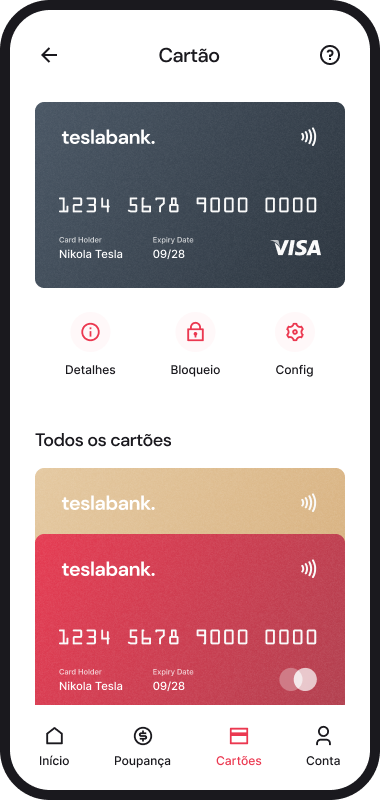
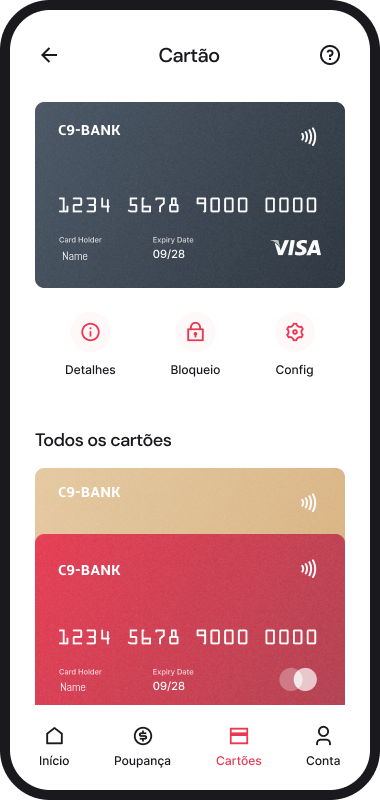
Download feito e blog

diff --git a/index.html b/index.html
@@ -95,17 +95,55 @@
                 </div>
             </div>   
         </section>
-        <section class="cartoes">
+        <section class="cartoes" id="cartoes">
             <div class="title">
-                <h2>Cartão perfeito para <br> suas necessidades.</h2>
+                <h1>Cartão perfeito para <br> suas necessidades.</h1>
                 <p>Encontre o cartão perfeito para suas necessidades financeiras. Seja para <br>viagens ou compras do dia a dia, temos uma opção que se adapta a você.</p>
             </div>
             <div class="img-cartao">
                 <img src="/assets/imagens/cards-type.svg" alt="">
             </div>
             <div class="abrir">
-                <a href="#" class="btn abrir-btn">Abrir sua conta</a>
+                <a href="#dowload" class="btn abrir-btn">Abrir sua conta</a>
                 <a href="#" class="btn btn-type">Compare os cartões</a>
+            </div>
+        </section>
+        <section class="dowload" id="dowload">
+            <div class="escrita_download">  
+                <h1>Uma nova experiência <br>
+                em <span class="red">serviços financeiros.</span></h1>
+                <p class="abort">Nossa abordagem inovadora e personalizada oferece uma <br>
+                experiência única para atender às suas necessidades.</p>
+                <div class="store">
+                    <button class="download_app"><img src="/assets/icons/apple-light.svg" alt=""><p>Download via <br> Aplle Store</p></button>
+                    <button class="download_app"><img src="/assets/icons/playstore-light.svg"alt="" width="30px"><p>Download via <br> Play Store</p></button>
+                </div>
+            </div>
+            <div class="logoc9">
+                <img src="/assets/imagens/c9logo.png" alt="">
+            </div>
+        </section>
+        <section class="blog">
+            <div class="letras">
+                <h2>Blog</h2>
+                <a href="">Todas as postagens</a>
+            </div>
+            <div class="conteudo">
+                <div>
+                    <img src="/assets/imagens/note.png" alt="">
+                    <h3>Como começar a usar o <br> TeslaBank para sua startup</h3>
+                    <p>Lorem, ipsum dolor sit amet consectetur adipisicing elit. Lorem ipsum <br> dolor sit amet consectetur adipisicing elit. Nihil excepturi veniam eligendi, <br> nemo obcaecati deleniti corrupti, velit laborum eaque</p>
+                </div>
+                <div>
+                    <img src="/assets/imagens/moeda.png" alt="">
+                    <h3>10 coisas que ninguém te contou sobre o C9-Bank</h3>
+                    <p>Lorem, ipsum dolor sit amet consectetur adipisicing elit. Lorem ipsum <br> dolor sit amet consectetur adipisicing elit. Nihil excepturi veniam eligendi, <br> nemo obcaecati deleniti corrupti, velit laborum eaque</p>
+                </div>
+                <div>
+                    <img src="/assets/imagens/pig.png" alt="">
+                    <h3>7 maneiras de melhorar seus hábitos de poupança</h3>
+                    <p>Lorem, ipsum dolor sit amet consectetur adipisicing elit. Lorem ipsum <br> dolor sit amet consectetur adipisicing elit. Nihil excepturi veniam eligendi, <br> nemo obcaecati deleniti corrupti, velit laborum eaque</p>
+                </div>
             </div>
         </section>
     </main>

diff --git a/style.css b/style.css
@@ -11,6 +11,11 @@ body {
     color: #333;
 }
 
+section {
+    min-height: 100vh; /* Faz a section ocupar 100% da altura da viewport */
+}
+
+
 /* NAVBAR */
 .navbar {
     display: flex;
@@ -255,10 +260,10 @@ main{
     text-align: center;
 }
 
-.cartoes .title h2{
+.cartoes .title h1{
     font-size: 3rem;
     color: black;
-    opacity: 0.9;
+    opacity: 0.8;
     padding-bottom: 2rem;
 }
 .cartoes .title p{
@@ -279,4 +284,103 @@ main{
     display: flex;
     justify-content: center;
     gap: 30px;
+    
 }
+
+/*Download*/
+
+.dowload{
+    display: flex;
+    width: 100%;
+    justify-content: space-between;
+    align-items: center;
+    margin-top: 50px;
+}
+
+.escrita_download .store{
+    display:flex;
+    gap: 40px;
+}
+
+.escrita_download h1{
+    color: black;
+    font-size: 3.5rem;
+    margin-bottom: 40px;
+    font-weight: 200;
+}
+
+.abort{
+    padding-bottom: 40px;
+    font-size: 20px;
+    font-weight: 600;
+}
+
+.red{
+    color: #cf253c;
+}
+    
+.download_app{
+    background-color: #353436;;
+    padding: 10px 32px;
+    color: white;
+    display: flex;
+    align-content: space-between;
+    border: none;
+    border-radius: 5px;
+    cursor: pointer;
+    transition: transform 0.5s;
+    
+}
+
+.download_app:hover{
+    background-color: #353436;;
+    padding: 10px 32px;
+    color: white;
+    display: flex;
+    border: none;
+    border-radius: 5px;
+    cursor: pointer;
+    transform: scale(1.2)
+}
+
+.escrita_download button{
+    gap: 20px;
+}
+
+.store.download_app p{
+    font-size: 15px;
+}
+
+.logoc9{
+    width: 380px;
+    height: 380px;
+    border-radius: 56px;
+    background: #eb3850;
+    display: flex;
+    align-items: center;
+    justify-content: center;
+}
+.logoc9 img{
+    height: 250px;
+}
+
+
+/*Blog*/
+
+.blog .letras{
+    display: flex;
+    justify-content: space-between;
+    margin-bottom: 70px;
+}
+
+.blog .conteudo{
+    display: flex;
+    justify-content: space-between;
+    gap: 30px;
+}
+
+.blog .conteudo img{
+   border-radius: 15px;
+}
+
+
